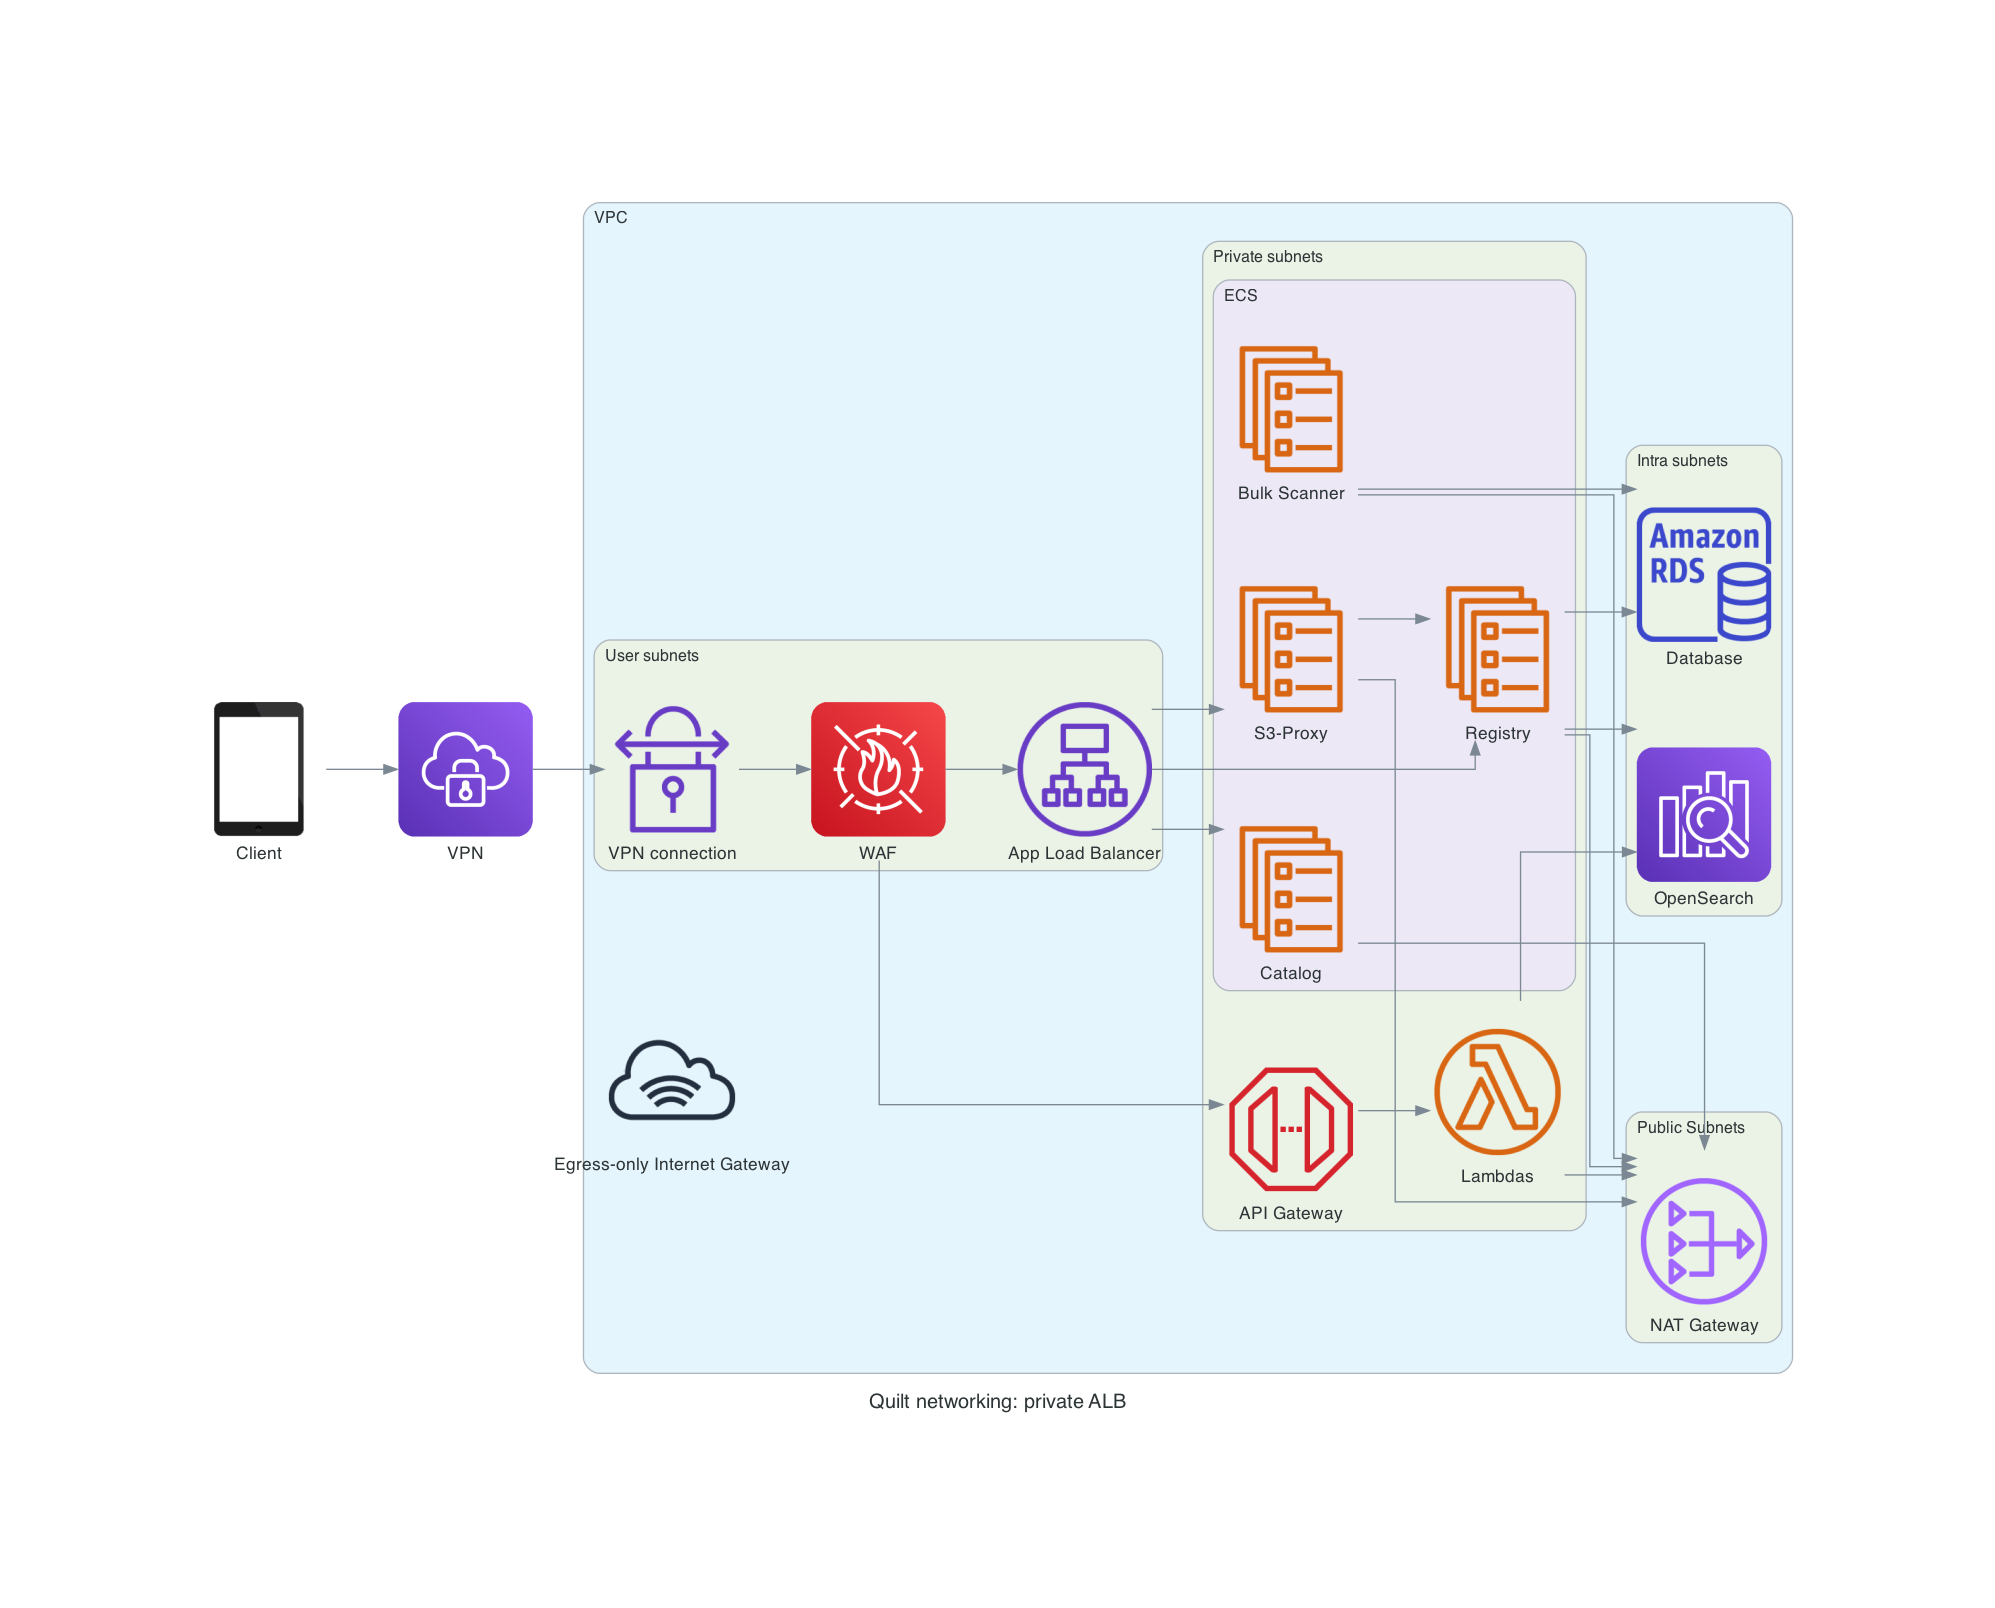
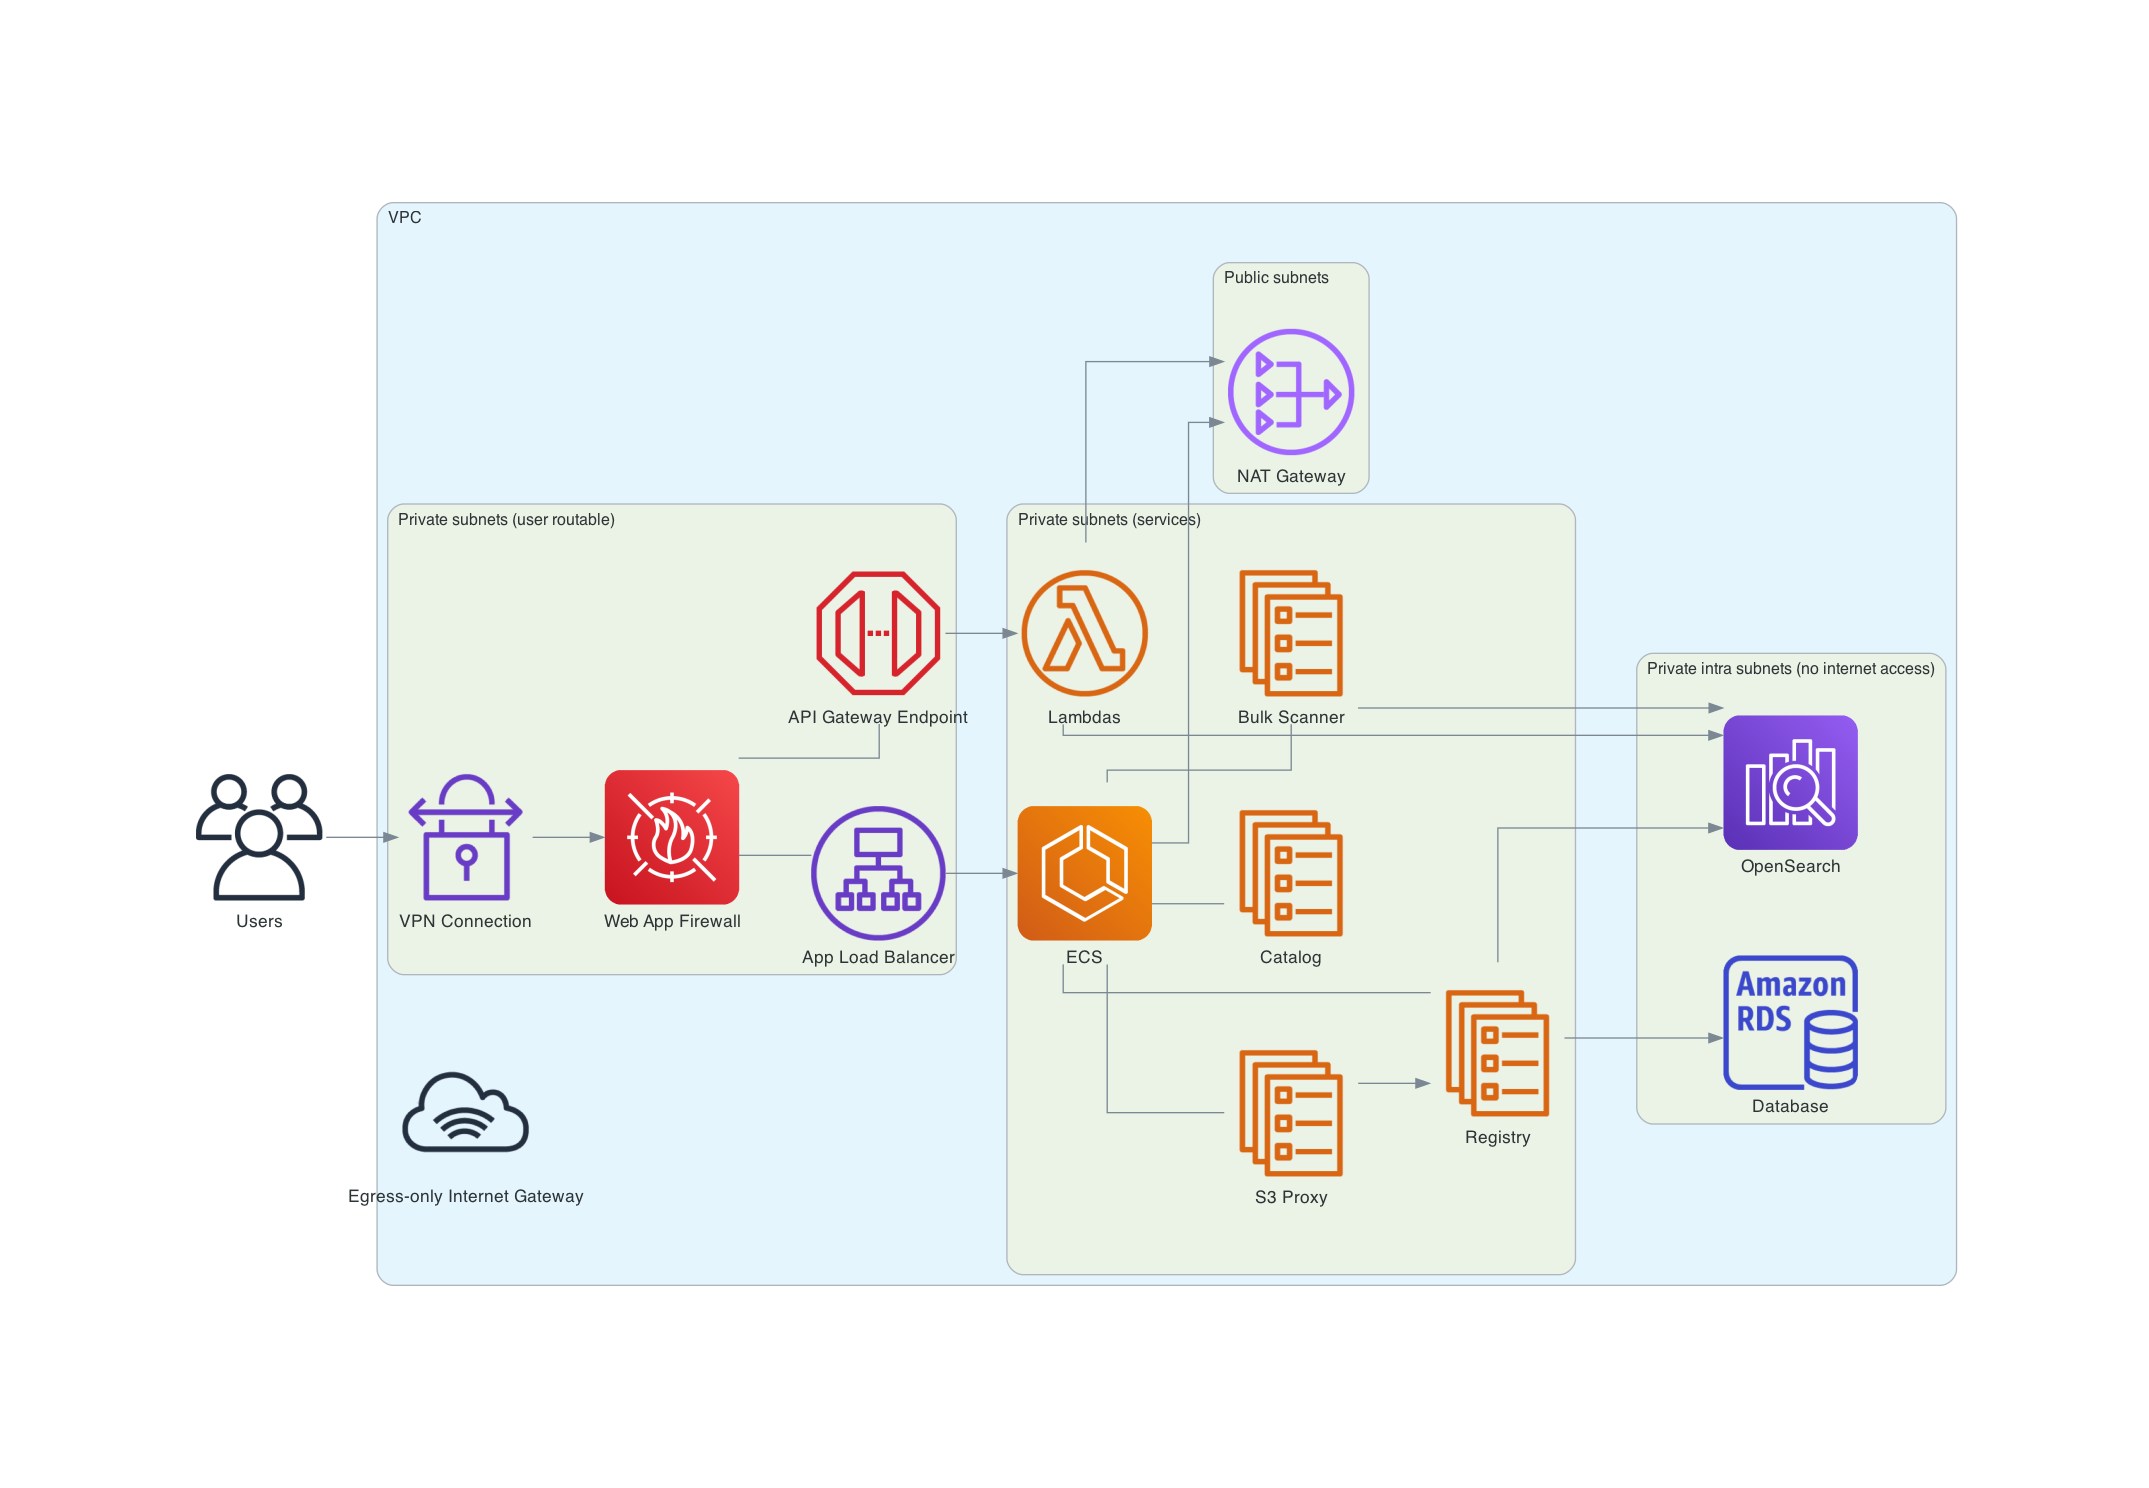
Improve diagrams; improve explanations

Changed region(s): [[0.0932, 0.1237, 0.9323, 0.8965]]

diff --git a/docs/technical-reference.md b/docs/technical-reference.md
@@ -29,22 +29,28 @@ SSO, user identities and IAM policies, an ElasticSearch cluster, and more.
 
 ### Network
 
-<p float="left">
-  <img src="imgs/network_public.png" width="100" />
-  <img src="imgs/network_private.png" width="295" /> 
-</p>
+#### Privtate load balancer
+![](imgs/network_private.png)
 
+#### Public load balancer
+![](imgs/network_public.png)
 
 You may provide your own VPC and subnets to a Quilt stack or have the Quilt stack
-create its own subnets.
+create its own network.
 
-> If you provide the VPC you are free to reuse subnets across parameters. For example:
-> `UserSubnets` and `PrivateSubnets` may refer to the same two subnets
+> If you provide the VPC you are free to reuse subnets across parameters. For example
+> you can use the same subnets for "Private subnets (services)" as "Private intra
+> subnets (no Internet) at the cost of a weaker security posture.
 
 In both cases Quilt uses subnets and security groups
 to isolate network services. You may optionally provide your own VPC CIDR block
 with a /16 prefix if the default block of 10.0.0.0/16 conflicts with shared or
 peered VPC services.
+
+> Run Quilt in a VPC with at least 1024 addresses (/22) to ensure sufficient
+> IPs for concurrent Lambdas and other services. If you wish to conserve
+> routable IP addresses you can place the Quilt load balancer in custom
+> "UserSubnets".
 
 Below are the subnet configurations and sizes for Quilt version 2.0 networks,
 new as of June 2023. The configuration is similar to the
